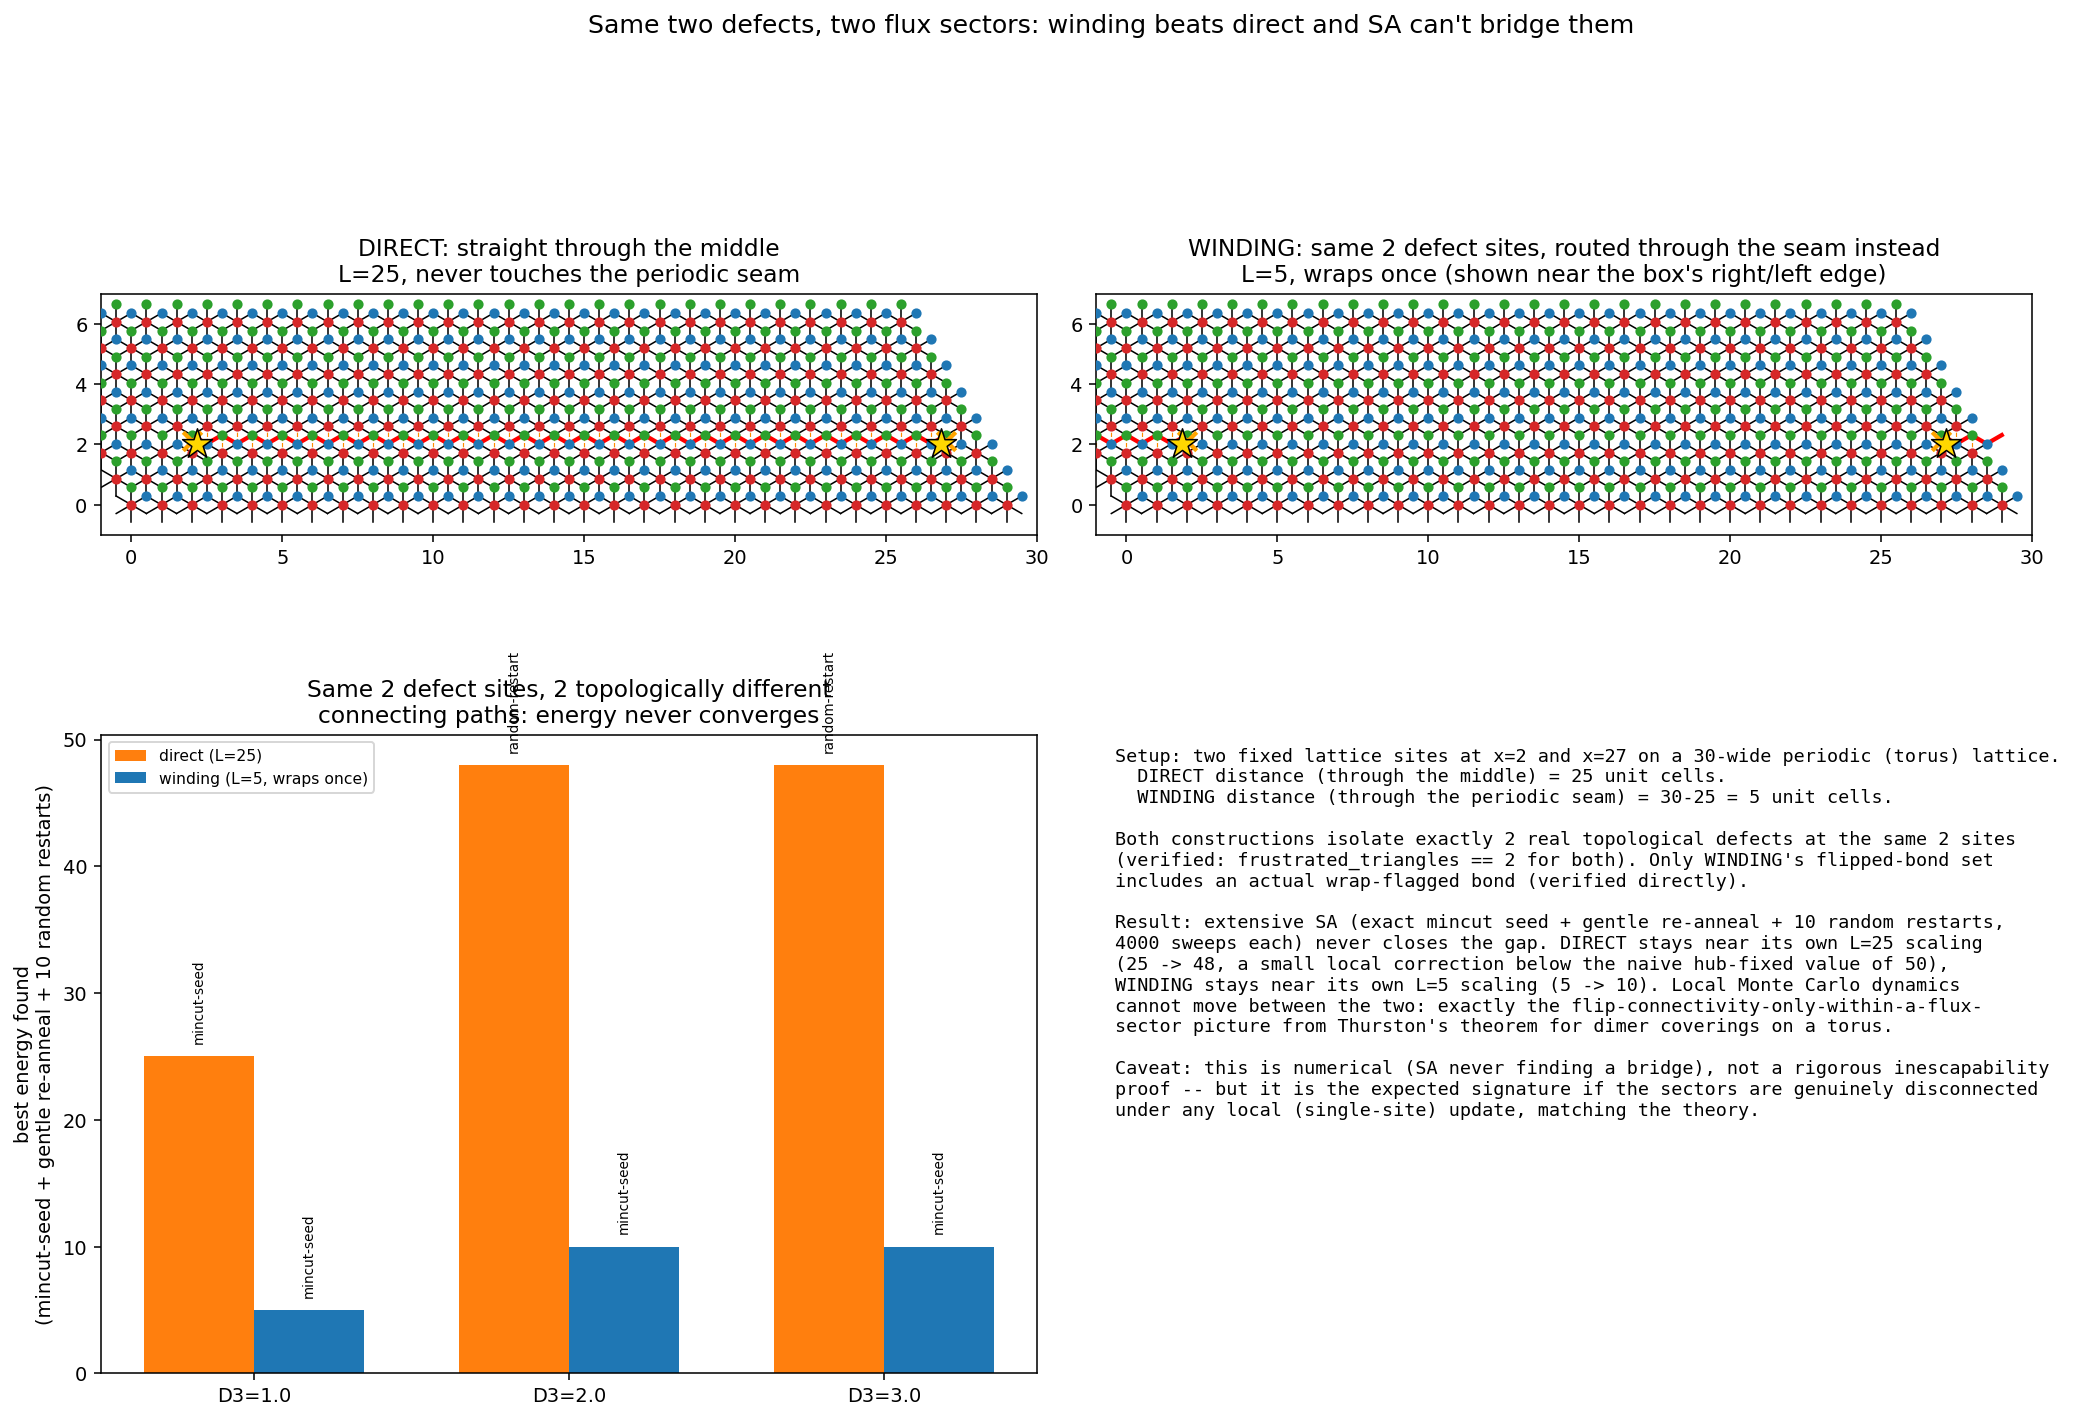
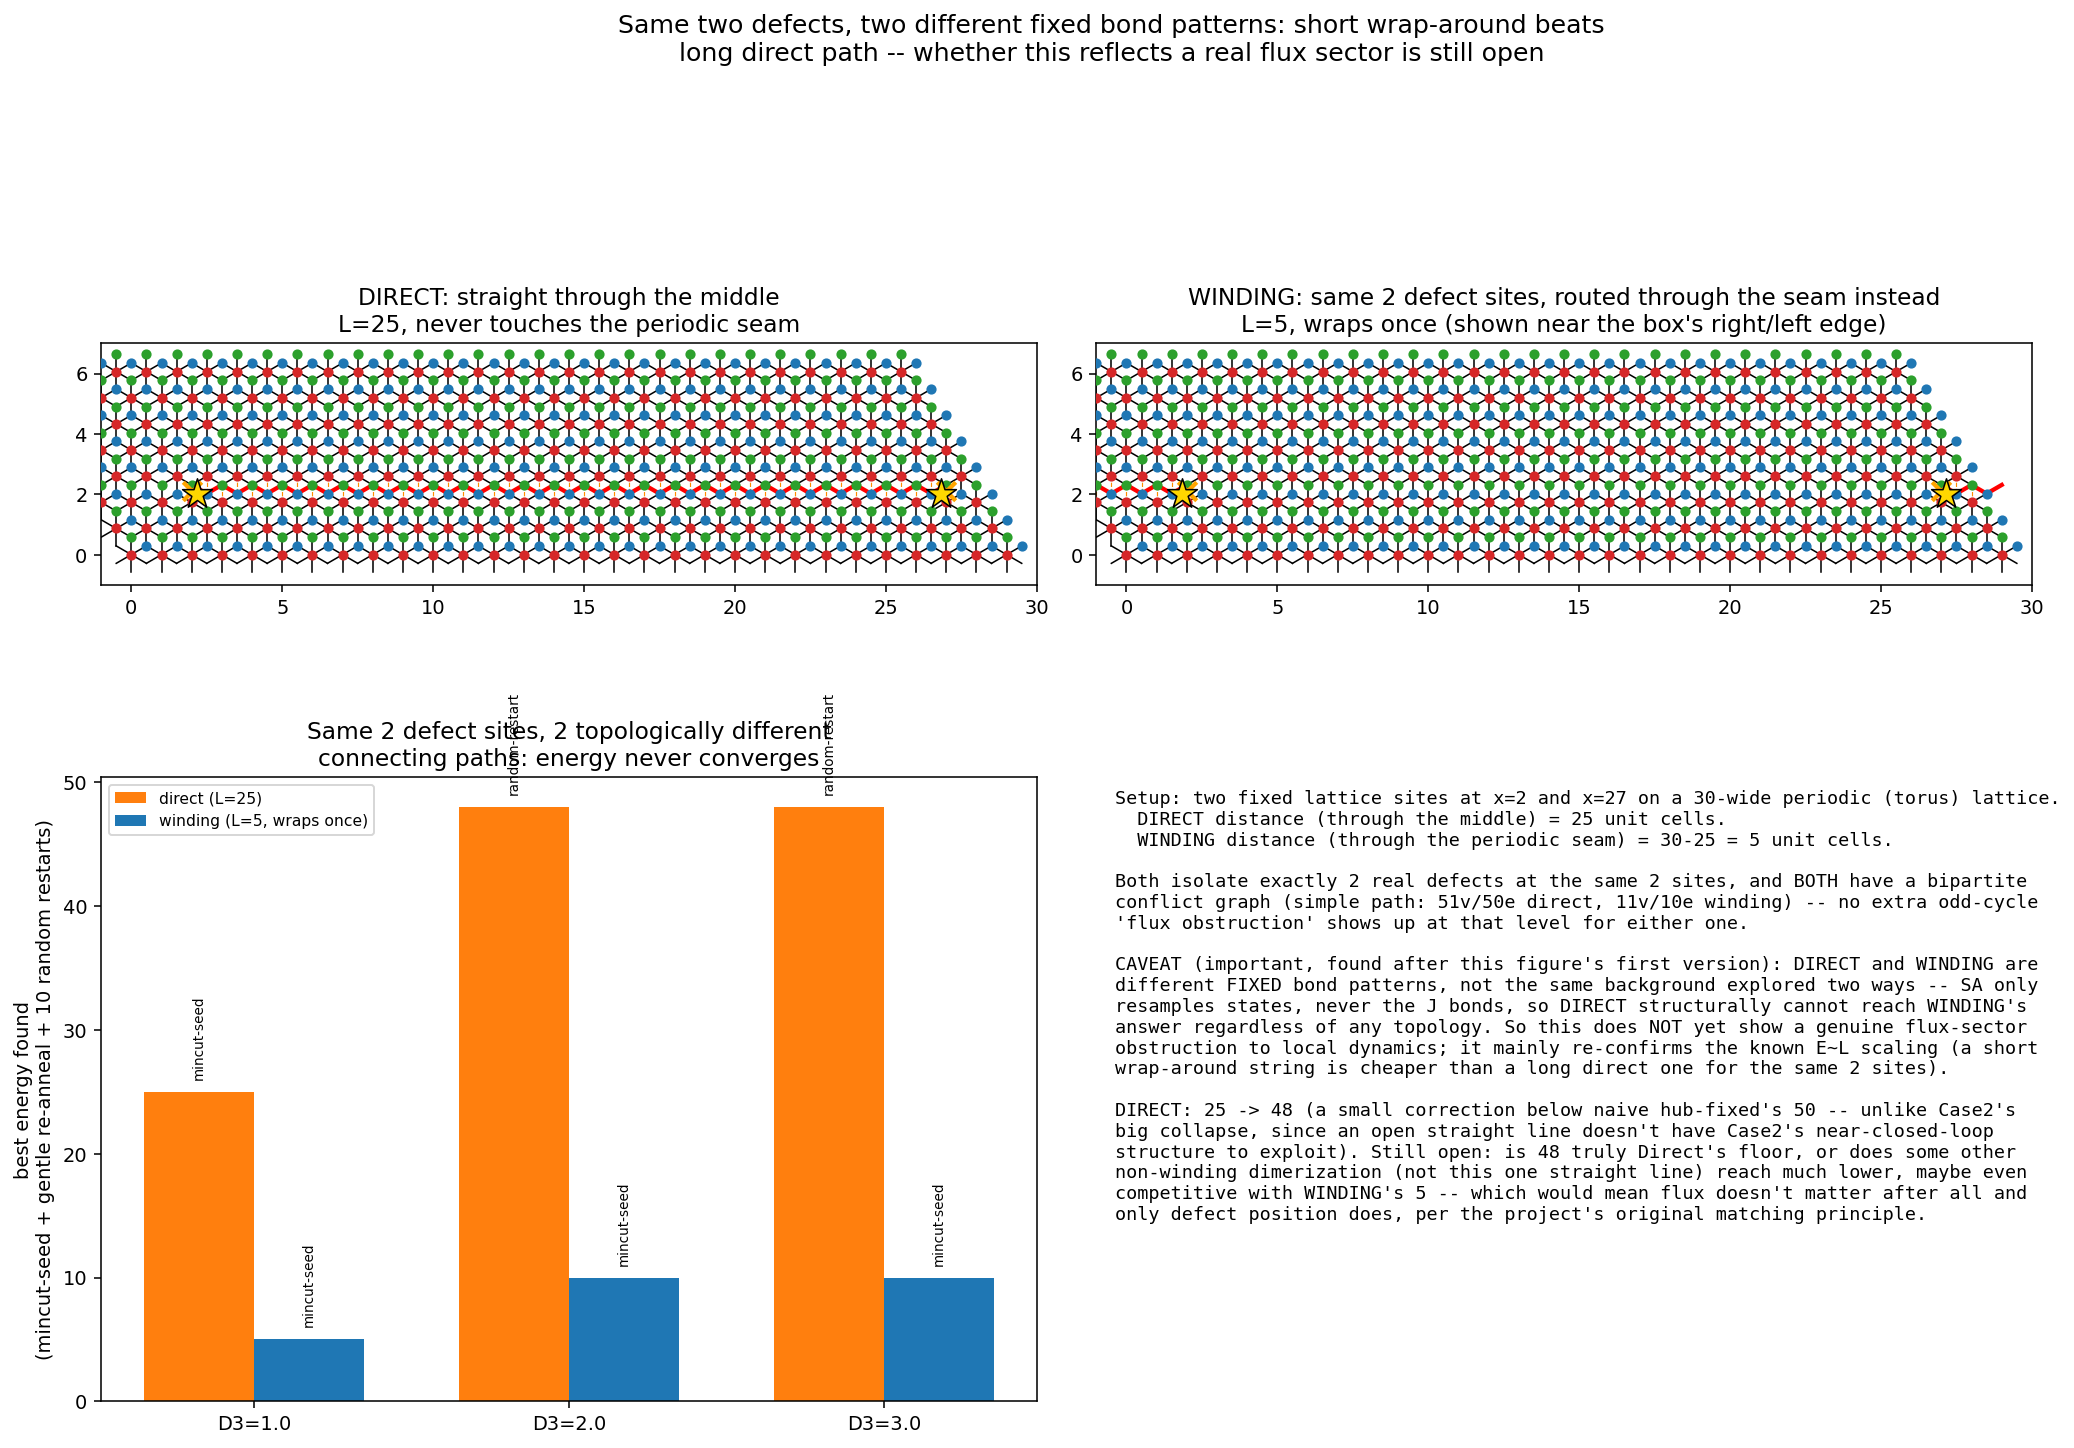
Correct the winding-string figure's framing: not yet a confirmed flux-sector effect
Earlier text/title overclaimed "matches Thurston's flux-sector theory."
Re-examining after the user's question about whether "the string" is
even well-defined for an arbitrary background dimerization surfaced the
real issue: DIRECT and WINDING are different FIXED bond patterns (SA
only resamples states, never J bonds), so DIRECT structurally cannot
reach WINDING's answer regardless of any topology -- this mainly
re-confirms known E~L scaling, not a genuine local-dynamics obstruction
between flux sectors. Updated the figure's text and title to say so
plainly, and added the conflict-graph bipartiteness check (both are
simple bipartite paths, no extra odd-cycle signature either way).

diff --git a/winding_string_figure.py b/winding_string_figure.py
@@ -72,24 +72,28 @@ def main():
         "Setup: two fixed lattice sites at x=2 and x=27 on a 30-wide periodic (torus) lattice.\n"
         "  DIRECT distance (through the middle) = 25 unit cells.\n"
         "  WINDING distance (through the periodic seam) = 30-25 = 5 unit cells.\n\n"
-        "Both constructions isolate exactly 2 real topological defects at the same 2 sites\n"
-        "(verified: frustrated_triangles == 2 for both). Only WINDING's flipped-bond set\n"
-        "includes an actual wrap-flagged bond (verified directly).\n\n"
-        "Result: extensive SA (exact mincut seed + gentle re-anneal + 10 random restarts,\n"
-        "4000 sweeps each) never closes the gap. DIRECT stays near its own L=25 scaling\n"
-        "(25 -> 48, a small local correction below the naive hub-fixed value of 50),\n"
-        "WINDING stays near its own L=5 scaling (5 -> 10). Local Monte Carlo dynamics\n"
-        "cannot move between the two: exactly the flip-connectivity-only-within-a-flux-\n"
-        "sector picture from Thurston's theorem for dimer coverings on a torus.\n\n"
-        "Caveat: this is numerical (SA never finding a bridge), not a rigorous inescapability\n"
-        "proof -- but it is the expected signature if the sectors are genuinely disconnected\n"
-        "under any local (single-site) update, matching the theory."
+        "Both isolate exactly 2 real defects at the same 2 sites, and BOTH have a bipartite\n"
+        "conflict graph (simple path: 51v/50e direct, 11v/10e winding) -- no extra odd-cycle\n"
+        "'flux obstruction' shows up at that level for either one.\n\n"
+        "CAVEAT (important, found after this figure's first version): DIRECT and WINDING are\n"
+        "different FIXED bond patterns, not the same background explored two ways -- SA only\n"
+        "resamples states, never the J bonds, so DIRECT structurally cannot reach WINDING's\n"
+        "answer regardless of any topology. So this does NOT yet show a genuine flux-sector\n"
+        "obstruction to local dynamics; it mainly re-confirms the known E~L scaling (a short\n"
+        "wrap-around string is cheaper than a long direct one for the same 2 sites).\n\n"
+        "DIRECT: 25 -> 48 (a small correction below naive hub-fixed's 50 -- unlike Case2's\n"
+        "big collapse, since an open straight line doesn't have Case2's near-closed-loop\n"
+        "structure to exploit). Still open: is 48 truly Direct's floor, or does some other\n"
+        "non-winding dimerization (not this one straight line) reach much lower, maybe even\n"
+        "competitive with WINDING's 5 -- which would mean flux doesn't matter after all and\n"
+        "only defect position does, per the project's original matching principle."
     )
     ax_text.text(0.02, 0.98, text, va="top", ha="left", fontsize=9.5, family="monospace",
                  transform=ax_text.transAxes)
 
-    plt.suptitle("Same two defects, two flux sectors: winding beats direct and SA can't bridge them",
-                  y=1.01, fontsize=13)
+    plt.suptitle("Same two defects, two different fixed bond patterns: short wrap-around beats\n"
+                  "long direct path -- whether this reflects a real flux sector is still open",
+                  y=1.03, fontsize=13)
     plt.tight_layout()
     fig.savefig("winding_string_comparison.png", dpi=140, bbox_inches="tight")
     plt.close(fig)
